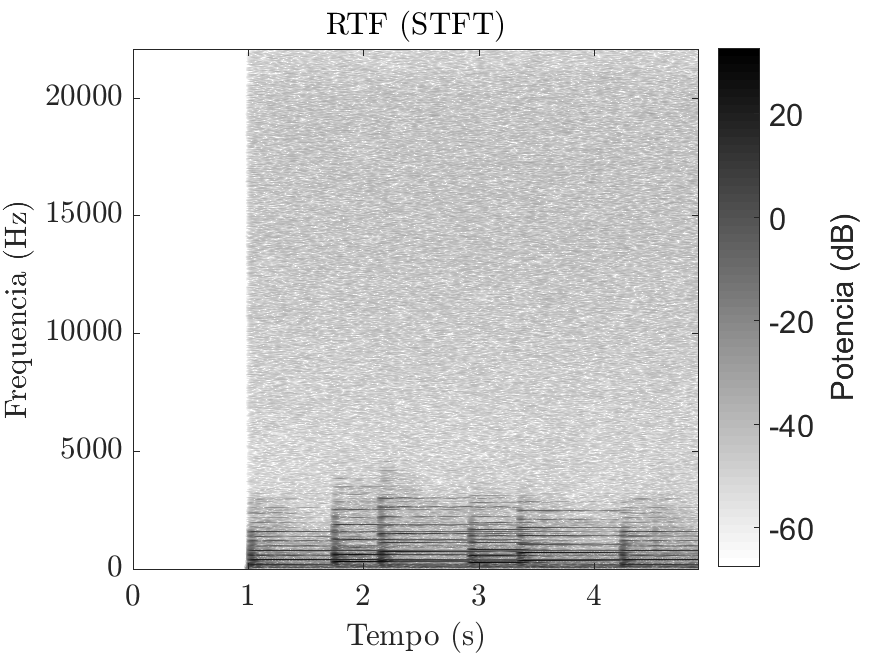
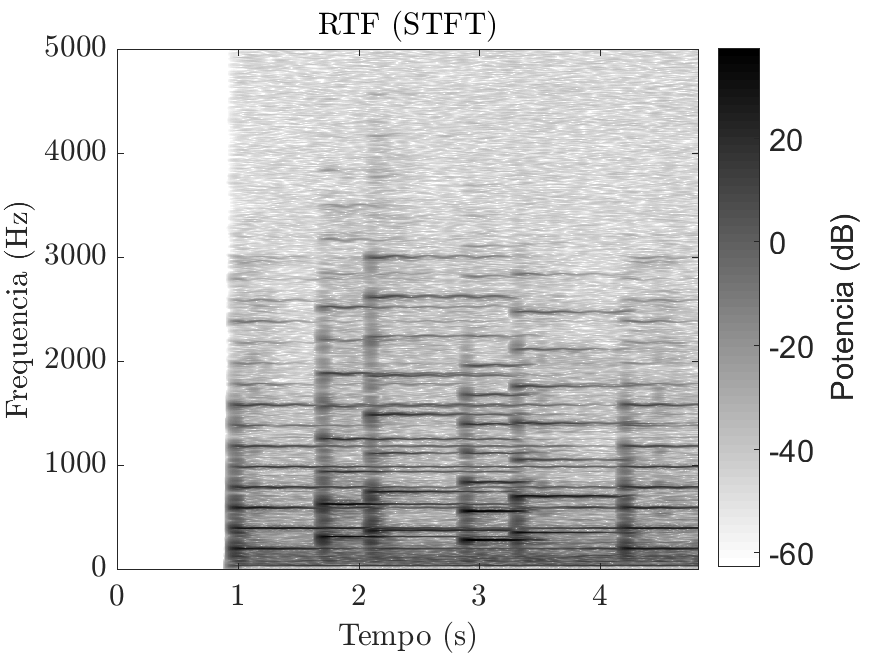
Tracking continued, random TFR experiments

diff --git a/Projeto_Final/functions/sin_analysis/PartialTracking_2023.m b/Projeto_Final/functions/sin_analysis/PartialTracking_2023.m
@@ -7,9 +7,10 @@ function currentTracks = PartialTracking_2023(inputFrame,totalFrames,currentTrac
         maxTracksPerFrame = 100;
 
         freqTolerance = (power(2,1/24)-1); % about 3% (quarter-tone)
+        powerTolerance = 3;                % in dB
         maxHysteresis = 3;                 % in frames
         minTrackLength = 10;               % in frames
-        maxTrackFrequency = 10000;         % in Hz
+        maxTrackFrequency = 5000;          % in Hz
         minTrackPower = -60;               % in dB
 
     % -|-|-|-|-|-|-|-|-|-|-|-|-|-|-|-|-|-|-|-|-|-|-|-|-| Initial Processing -|-|-|-|-|-|-|-|-|-|-|-|-|-|-|-|-|-|-|-|-|-|-|-|-|-|-|-|    
@@ -54,7 +55,8 @@ function currentTracks = PartialTracking_2023(inputFrame,totalFrames,currentTrac
             deactivatedIndexes = []; % Indexes of all tracks that were deactivated in the current frame
             activeIndexes = structArrayOperations(currentTracks,'status','==','active');  % Gathering active indexes
             asleepIndexes = structArrayOperations(currentTracks,'status','==','asleep'); % Gathering asleep indexes
-            availableIndexes = [asleepIndexes,activeIndexes];  % Tracks available for the matching process
+            availableIndexes = [activeIndexes,asleepIndexes];  % Tracks available for the matching process
+            %availableIndexes = availableIndexes(randperm(length(availableIndexes)));
 
             if DEBUG == 1
                 fprintf('Available (active or asleep) tracks: %i of %i.\n',length(availableIndexes),length(currentTracks));
@@ -69,6 +71,9 @@ function currentTracks = PartialTracking_2023(inputFrame,totalFrames,currentTrac
 
                 trackFrequency = currentTracks(trackIndex).frequencyEvolution(end);
                 matchedPeaks = intersect(find(peakMatrix(freqRow,:) < trackFrequency*(1 + freqTolerance)),find(peakMatrix(freqRow,:) > trackFrequency*(1 - freqTolerance)));
+                %Power matching criterion (experimental)
+                %matchedPeaksPower = intersect(find(peakMatrix(powerRow,:) < currentTracks(trackIndex).powerEvolution(end) + powerTolerance),find(peakMatrix(powerRow,:) > currentTracks(trackIndex).powerEvolution(end) - powerTolerance));
+                %matchedPeaks = intersect(matchedPeaks,matchedPeaksPower);
 
                 if (~isempty(matchedPeaks)) % Track matched to a peak
                     [~,matchIndex] = min(abs(peakMatrix(freqRow,matchedPeaks)-trackFrequency));

diff --git a/Projeto_Final/functions/TFR_combs/cqt_toolbox/DEMO.m b/Projeto_Final/functions/TFR_combs/cqt_toolbox/DEMO.m
@@ -7,14 +7,14 @@
 %% init values for CQT
 fs = 44100;
 bins_per_octave = 24;
-fmax = fs/3;     %center frequency of the highest frequency bin 
+fmax = fs/5;     %center frequency of the highest frequency bin 
 fmin = fmax/512; %lower boundary for CQT (lowest frequency bin will be immediately above this): fmax/<power of two> 
 
 %% generate/read input signal%
 %x = randn(30*fs,1);
-signal_name = 'Mix1.wav';
+signal_name = '..\..\..\audio_src\paulistana3_5s.wav';
 
-[data, fs_org] = audioread([signal_name]);
+[data, fs_orig] = audioread([signal_name]);
 if size(data,2) > 1
     x = mean(data.');
 else
@@ -63,14 +63,19 @@ end
 absCQT = abs(Xcqt.spCQT);
 
 
-% plot_range = 100
-% plot_max = max(max(10*log10(intCQT)));
-% emptyHops = Xcqt.intParams.firstcenter/Xcqt.intParams.atomHOP;
-% maxDrop = emptyHops*2^(Xcqt.octaveNr-1)-emptyHops;
-% droppedSamples = (maxDrop-1)*Xcqt.intParams.atomHOP + Xcqt.intParams.firstcenter;
-% t = (1:size(absCQT,2))*Xcqt.intParams.atomHOP-Xcqt.intParams.preZeros+droppedSamples;
-% f = 1:size(absCQT,1);
-% PlotSpectrogram_ylin(f,t,[plot_max-plot_range plot_max],10*log10(intCQT));
-% title(sprintf('Espectrograma CQT'))
+ plot_range = 100;
+ plot_max = max(max(10*log10(absCQT)));
+ emptyHops = Xcqt.intParams.firstcenter/Xcqt.intParams.atomHOP;
+ maxDrop = emptyHops*2^(Xcqt.octaveNr-1)-emptyHops;
+ droppedSamples = (maxDrop-1)*Xcqt.intParams.atomHOP + Xcqt.intParams.firstcenter;
+ t = (1:size(absCQT,2))*Xcqt.intParams.atomHOP-Xcqt.intParams.preZeros+droppedSamples;
+ t = t./fs;
+ f = 1:size(absCQT,1);
+ PlotSpectrogram_ylin(f,t,[plot_max-plot_range plot_max],10*log10(absCQT));
+ title(sprintf('Espectrograma CQT'))
+ set(gca,'YTick',1:Xcqt.bins/2:Xcqt.octaveNr*Xcqt.bins);
+ h = get(gca); yTick = h.YTick';
+ yTickLabel = num2str(round(Xcqt.fmin*2.^((yTick-1)/Xcqt.bins)),5);
+ set(gca,'YTickLabel',yTickLabel);
 
 

diff --git a/Projeto_Final/functions/TFR_combs/TFAnalysis_MRFCI.m b/Projeto_Final/functions/TFR_combs/TFAnalysis_MRFCI.m
@@ -10,9 +10,9 @@ function [combined_TFR_MRFCI, f, t] = TFAnalysis_MRFCI(x,fs)
 
         % Synthesis TFR - - - - - - - - - - - - - - - - - - -
         N_alphas = 7; % Number of alphas (I, in the paper)
-        Nf = [1024 2048 3072 4096]; % Window sizes
-        asym_flags = [0 0 0 1]; % Indicate which Nf will be used to compute Fan-chirp instances
-        FChT_flags = [0 1 1 1]; % Indicate which Nf will be used to compute Fan-chirp instances
+        Nf = [1024 2048 3072 4096 8192]; % Window sizes
+        asym_flags = [0 0 0 0 1]; % Indicate which Nf will be used to compute Fan-chirp instances
+        FChT_flags = [0 0 0 1 1]; % Indicate which Nf will be used to compute Fan-chirp instances
 
         % Structure tensor - - - - - - - - -
         C_limits = [0 .25 .75 1 ; 1 2 2 3]; % Defines the points of transition for the lambda weights
@@ -22,7 +22,7 @@ function [combined_TFR_MRFCI, f, t] = TFAnalysis_MRFCI(x,fs)
         sigma_t = Nf(end)/(4*fs); % in s
         sigma_f = 100;% in Hz
 
-        Nf_structure_tensor = Nf(1); % To compute the structure tensor
+        Nf_structure_tensor = Nf(4); % To compute the structure tensor
 
     %% - - - - - - -  TFR computation - - - - - - -
 

diff --git a/Projeto_Final/functions/TFR_combs/TFAnalysis_CQT.m b/Projeto_Final/functions/TFR_combs/TFAnalysis_CQT.m
@@ -9,10 +9,23 @@ function [TFR_CQT, f, t] = TFAnalysis_CQT(x,fs)
         hop = 128;
         N_w = 4096;
         NFFT = N_w;
+        bins_per_octave = 24;
+        fmax = fs/2;     %center frequency of the highest frequency bin 
+        fmin = fmax/512; %lower boundary for CQT (lowest frequency bin will be immediately above this): fmax/<power of two> 
+
 
     %% - - - - - - -  TFR computation - - - - - - -
+        Xcqt = cqtPerfectRast(x,fmin,fmax,bins_per_octave,fs,'q',1,'atomHopFactor',0.25,'thresh',0.0005,'win','sqrt_blackmanharris');
 
-        [spectrgMatrix, f, t] = spectrogram(x,hanning(N_w,'periodic'),N_w-hop,NFFT,fs);
+        emptyHops = Xcqt.intParams.firstcenter/Xcqt.intParams.atomHOP;
+        maxDrop = emptyHops*2^(Xcqt.octaveNr-1)-emptyHops;
+        droppedSamples = (maxDrop-1)*Xcqt.intParams.atomHOP + Xcqt.intParams.firstcenter;
+        
+        absCQT = abs(Xcqt.spCQT);
+        t = (1:size(absCQT,2))*Xcqt.intParams.atomHOP-Xcqt.intParams.preZeros+droppedSamples;
+        t = t./fs;
+        f = 1:size(absCQT,1); 
+        spectrgMatrix = absCQT;
         
         TFR_CQT = power(abs(spectrgMatrix),2);%/NFFT;
         %TFR_CQT = abs(spectrgMatrix);%/NFFT;

diff --git a/Projeto_Final/SA_Experiment.m b/Projeto_Final/SA_Experiment.m
@@ -23,13 +23,13 @@ end
 
     % TFR Method
     method_name = {'STFT', 'CQT', 'FLS', 'MRFCI'}; % TFR Methods available
-    method_flags = [1 0 0 0]; % Which method will be enabled
+    method_flags = [0 0 0 1]; % Which method will be enabled
     methods_enabled = find(method_flags);
 
     plot_enable = 1;
     print_figures = 1;
 
-    energy_ref_method = 1; % index of method that will be used as reference energy for plots (guide in method_name)
+    energy_ref_method = 4; % index of method that will be used as reference energy for plots (guide in method_name)
     plot_range = 100; % dB - Power range for plotting
     %plot_max = 10; % dB - Max plotting power
 

diff --git a/Projeto_Final/functions/sin_analysis/aux_functions/setNewTrack.m b/Projeto_Final/functions/sin_analysis/aux_functions/setNewTrack.m
@@ -21,7 +21,7 @@ function newTrack = setNewTrack(peakParameters,currentFrame)
         newTrack.finalFrame = currentFrame; % Ending frame of the track (0 if non-existent or active)
         newTrack.length = 1; % length of the track (0 if non-existent)
         newTrack.hysteresis = 0; % Hysteresis counter
-        newTrack.status = 1; % Track Status: 0 = inactive, 1 = active, 2 = asleep.
+        newTrack.status = 2; % Track Status: 0 = inactive, 1 = active, 2 = asleep.
     end
 
 end 

diff --git a/Projeto_Final/functions/plots/PlotTracks.m b/Projeto_Final/functions/plots/PlotTracks.m
@@ -22,7 +22,7 @@ function organizedTracks = PlotTracks(trackArray,timeInstants);
 
         if (length(trackTimes) ~= length(trackFrequencies))
             fprintf('\nThis is track %i\n',trackIndex);
-            fprintf('%i Track Times and %i trackFrequencies',length(trackTimes), length(trackFrequencies));
+            fprintf('%i Track Times and %i trackFrequencies\n',length(trackTimes), length(trackFrequencies));
             error('Hmm. Wrong.');
         end
 

diff --git a/Projeto_Final/functions/sin_analysis/PeakDetection.m b/Projeto_Final/functions/sin_analysis/PeakDetection.m
@@ -36,7 +36,7 @@ function [detectedPeakMatrix,spectrumThreshold] = PeakDetection(inputFrame,sampl
         case 'SSE' 
             numberCoeffsSSE = 30;  
             spectrumThreshold = PeakThreshold_SSE(inputFrame,numberCoeffsSSE,DEBUG) + thresholdOffset;
-        
+    end 
     % Peak Detection
         %Finding all local maxima
             initialPeaks = NaN(1,totalFreqBins); 

diff --git a/Projeto_Final/functions/plots/PlotSpectrogram_ylin.m b/Projeto_Final/functions/plots/PlotSpectrogram_ylin.m
@@ -22,7 +22,7 @@ function PlotSpectrogram_ylin(freqs,times,plotLimits,powerSpectrgDB)
     %% SHARED AND LABELS
 
         caxis(plotLimits)
-        %ylim([0 5000])
+        ylim([0 5000])
 
         xlabel('Tempo (s)','FontSize', 15)
         ylabel('Frequencia (Hz)','FontSize', 15)
